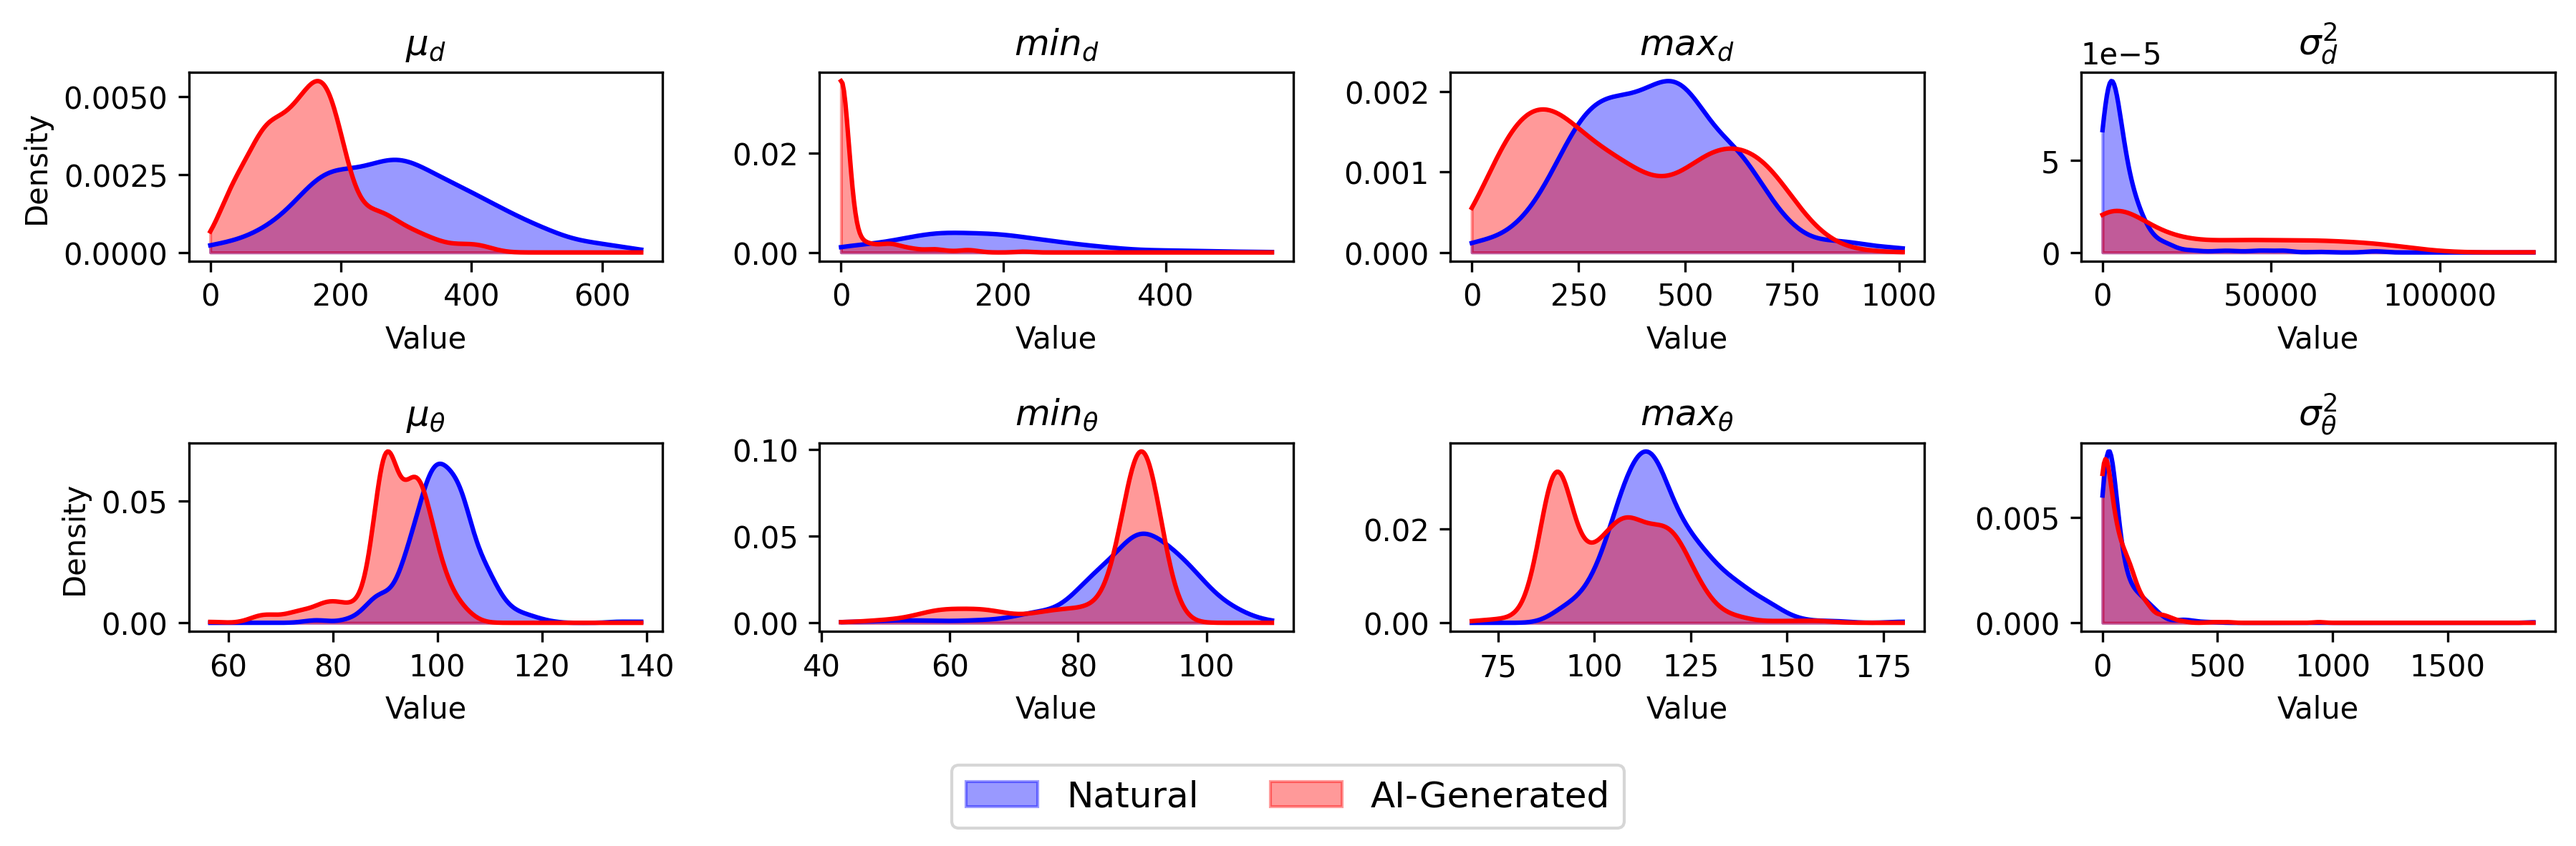
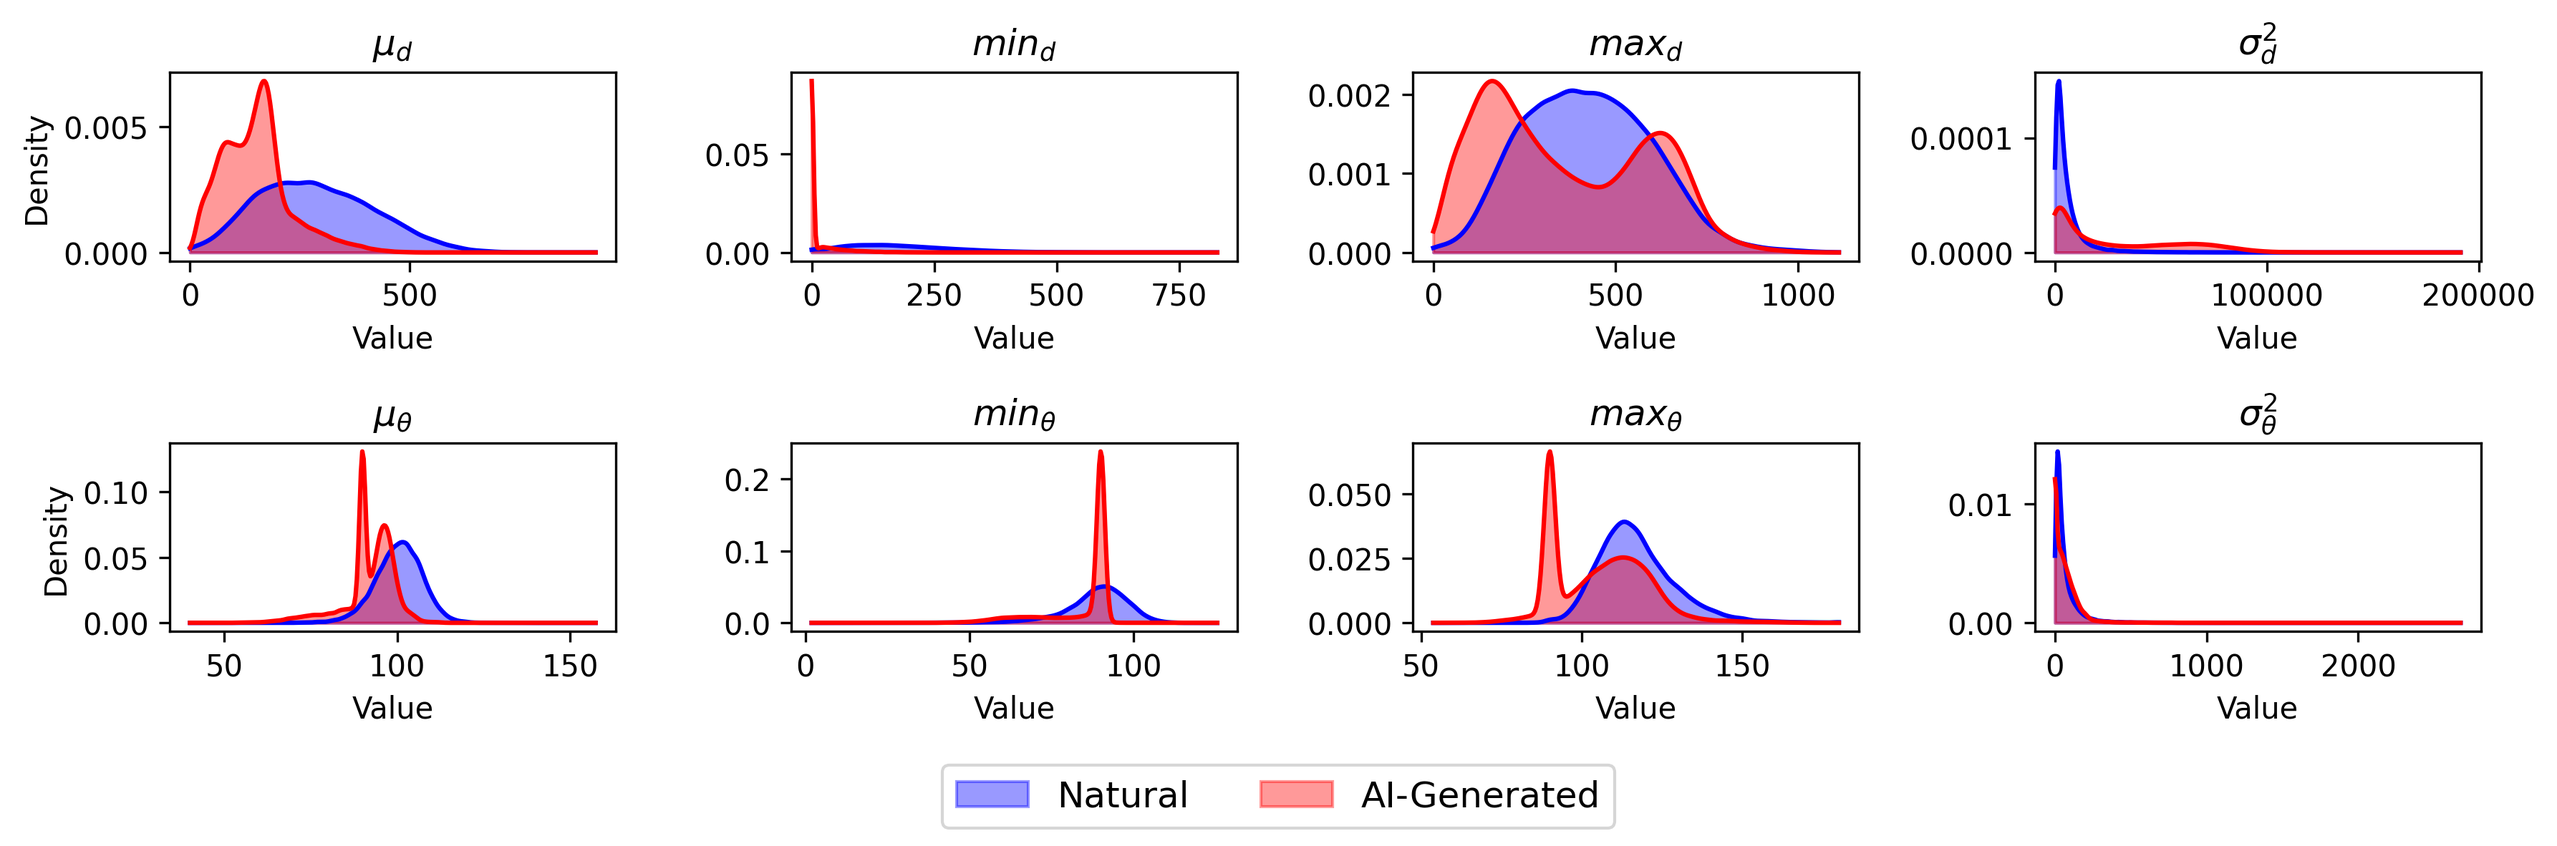
updated distributions to use h5

diff --git a/STATS/distributions_dino.py b/STATS/distributions_dino.py
@@ -1,57 +1,58 @@
-import torch
 import numpy as np
+import h5py
 import matplotlib.pyplot as plt
-import sys
-from pathlib import Path
-from tqdm import tqdm
 from scipy.stats import gaussian_kde
+from tqdm import tqdm
+from pathlib import Path
 
-from utils import find_videos
+#Load data
+h5_path = "../DATA/training_features.h5"
 
-repo_root = Path(__file__).resolve().parent.parent
-sys.path.insert(0, str(repo_root))
+with h5py.File(h5_path, "r") as f:
+    X = f["features"][:] 
+    y = f["label"][:] 
+    paths = f["path"][:].astype(str)
 
-import dinov2_features as d2
+print(f"Loaded {len(X)} samples from {h5_path}")
 
-batch_size = 64
-device = "cuda:2"
+#Filter fake paths by interested models
+allowed_models = [
+    "pika_videos_example",
+    "vc2_videos_example",
+    "t2vz_videos_example",
+    "ms_videos_example"
+]
 
-real_root = Path("../DATA/TRAINING_DATA/REAL")
-fake_root = Path("../DATA/TRAINING_DATA/FAKE")
+mask_real = y == 1
+mask_fake = np.array([any(m in p for m in allowed_models) for p in paths]) & (y == 0)
 
-real = find_videos(real_root, limit=10000)
-fake = find_videos(fake_root, keys=["pika", "t2vz", "vc2", "ms"], limit=2500)
-fake_all = [p for lst in fake.values() for p in lst]
+real_stats = X[mask_real][:, -8:]
+fake_stats = X[mask_fake][:, -8:]
 
-print("Extracting REAL frame embeddings...")
-Z_real = []
-for i in tqdm(range(0, len(real), batch_size), desc="Encoding videos", ncols=80):
-    batch = real[i:i+batch_size]
-    Z = d2.extract_dinov2_embeddings(batch, device=device)
-    Z_real.append(Z.cpu())
-Z_real = torch.cat(Z_real, dim=0)
+print(f"Filtered fake samples: {len(fake_stats)} (from allowed models)")
+print(f"Real samples: {len(real_stats)}")
 
-print("Extracting FAKE frame embeddings...")
-Z_fake = []
-for i in tqdm(range(0, len(real), batch_size), desc="Encoding videos", ncols=80):
-    batch = fake_all[i:i+batch_size]
-    Z = d2.extract_dinov2_embeddings(batch, device=device)
-    Z_fake.append(Z.cpu())
-Z_fake = torch.cat(Z_fake, dim=0)
+#Balance classes (equal priors)
+n_balanced = min(len(real_stats), len(fake_stats))
+rng = np.random.default_rng(seed=42)
+sel_real = rng.choice(len(real_stats), n_balanced, replace=False)
+sel_fake = rng.choice(len(fake_stats), n_balanced, replace=False)
 
-print(f"real shape: {Z_real.shape}")
-print(f"fake shape: {Z_fake.shape}")
+real_stats = real_stats[sel_real]
+fake_stats = fake_stats[sel_fake]
 
-fake_stats = d2.features_from_Z(Z_fake)[:, -8:]
-real_stats = d2.features_from_Z(Z_real)[:, -8:]
+print(f"Balanced: {n_balanced} real vs {n_balanced} fake samples")
 
-labels = [r'$\mu_d$', r'$min_d$', r'$max_d$', r'$\sigma^2_d$',
-          r'$\mu_\theta$', r'$min_\theta$', r'$max_\theta$', r'$\sigma^2_\theta$']
+#Plot
+labels = [
+    r'$\mu_d$', r'$min_d$', r'$max_d$', r'$\sigma^2_d$',
+    r'$\mu_\theta$', r'$min_\theta$', r'$max_\theta$', r'$\sigma^2_\theta$'
+]
 
 fig, axes = plt.subplots(2, 4, figsize=(12, 4))
 axes = axes.ravel()
 
-for i in range(8):
+for i in tqdm(range(8), desc="Plotting distributions"):
     ax = axes[i]
     x_real = real_stats[:, i]
     x_fake = fake_stats[:, i]
@@ -75,8 +76,7 @@ for i in range(8):
     ax.set_xlabel("Value")
 
 fig.legend(['Natural', 'AI-Generated'], loc='lower center', ncol=2, fontsize=12)
-
 plt.tight_layout(rect=[0, 0.1, 1, 1])
 plt.savefig("distributions_dino.png", dpi=300, bbox_inches='tight')
 plt.close()
-print("Saved plot as .png")
+print("Saved plot as distributions_dino.png")
